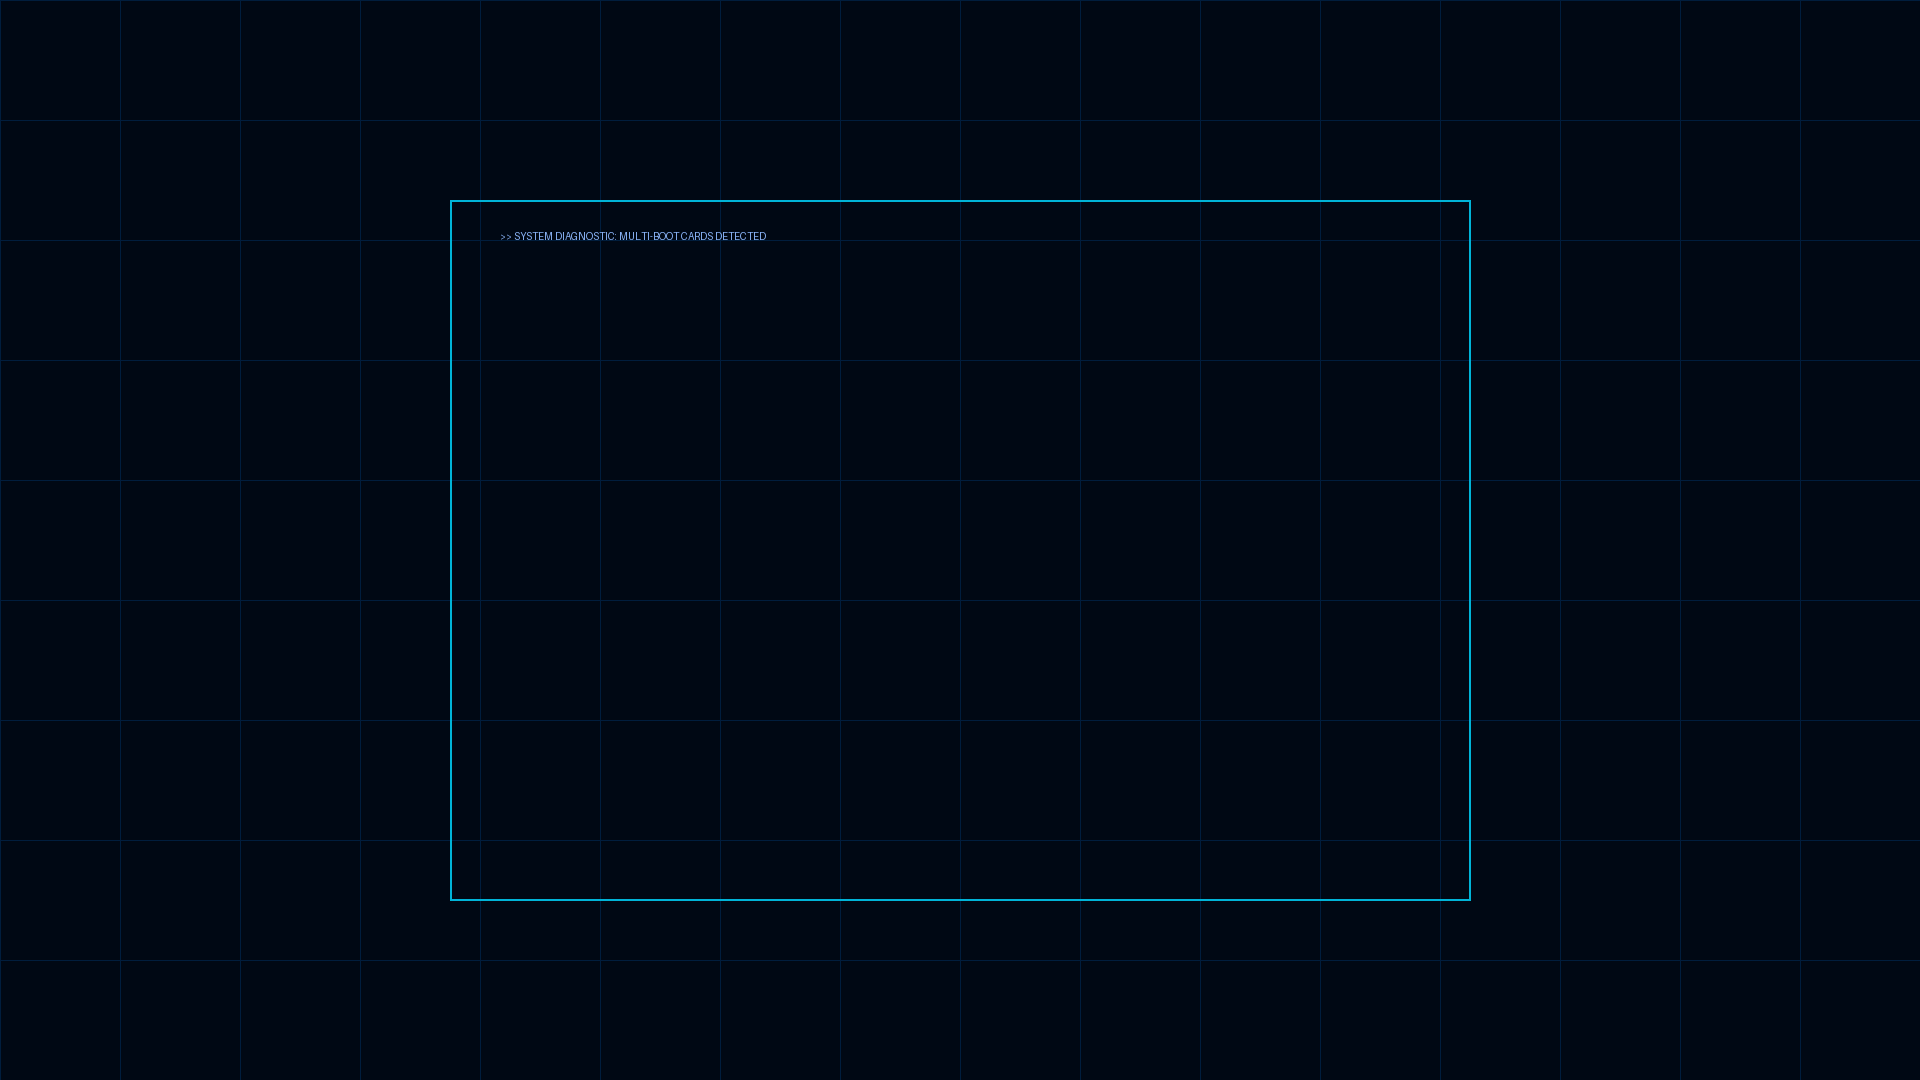
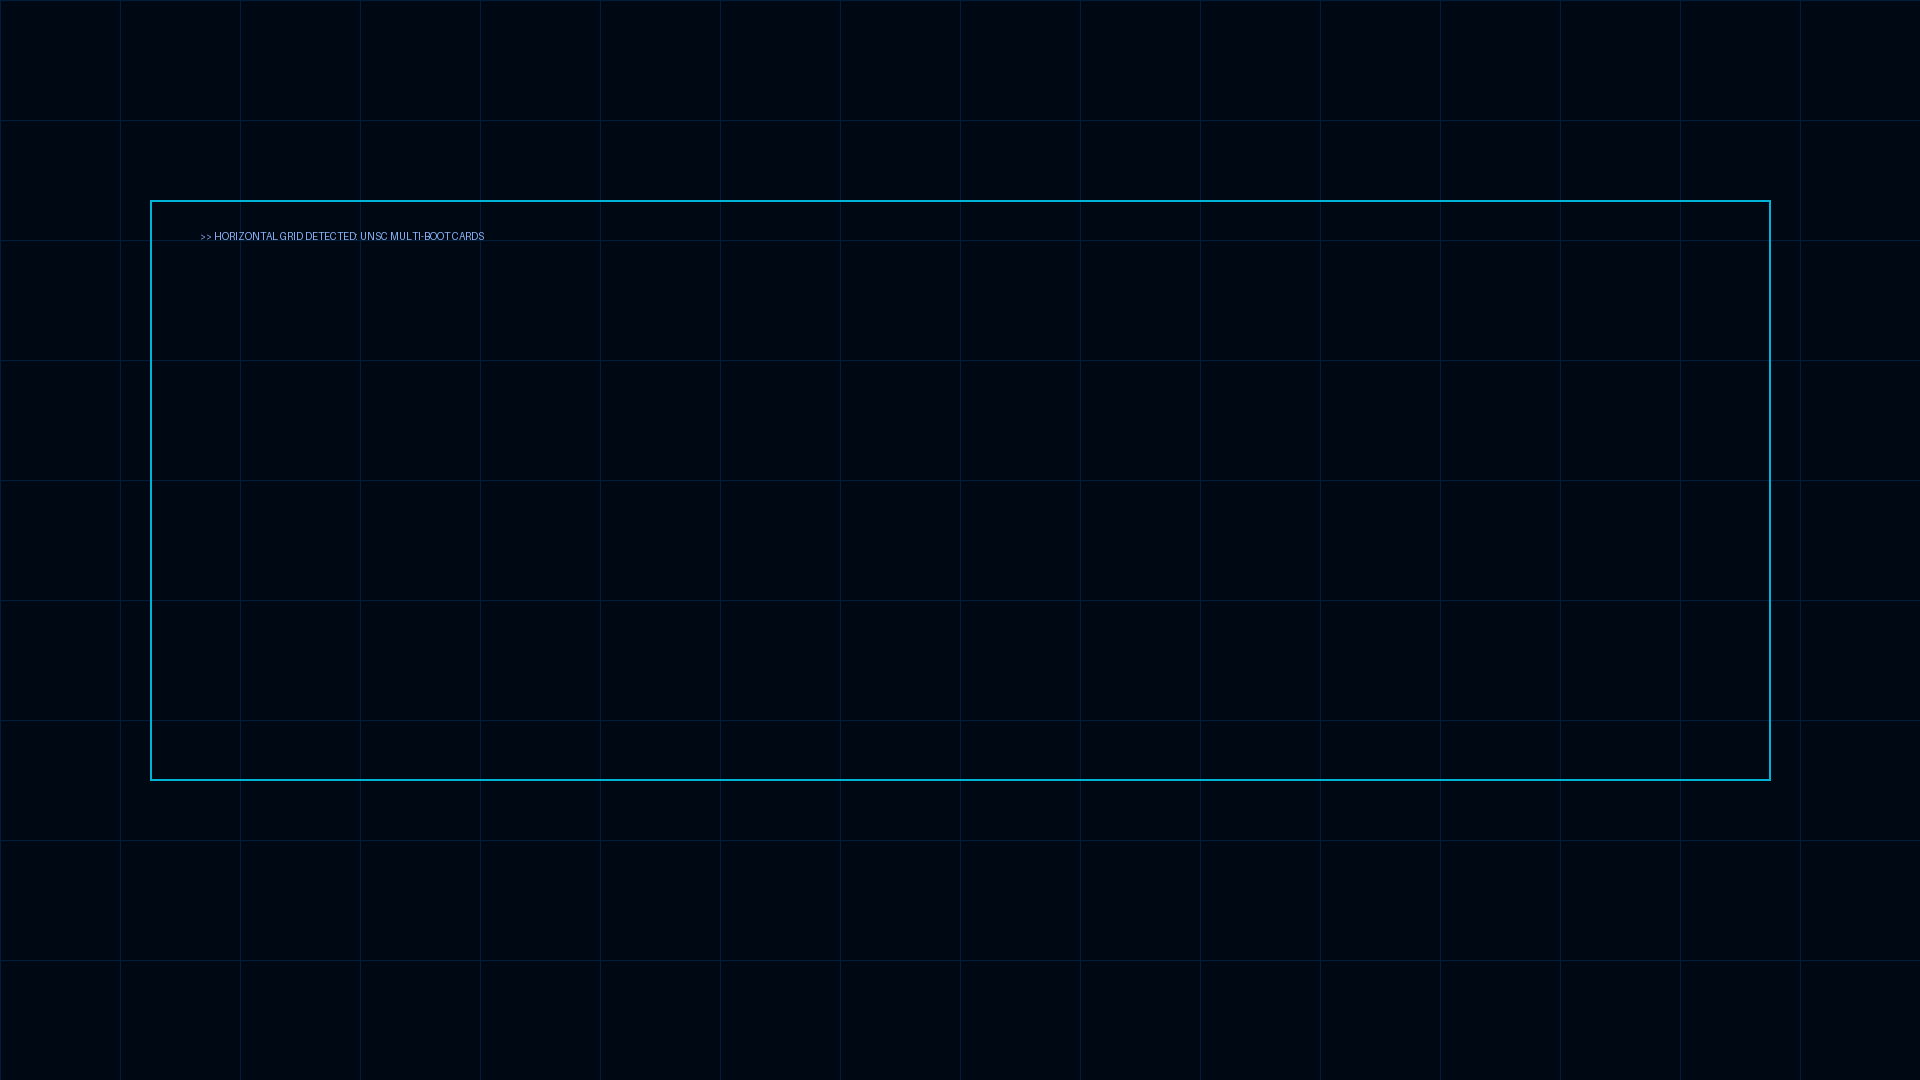
pembaruan style horisontal
Pembaruan style selection dalam bentuk card horisontal

diff --git a/README.md b/README.md
@@ -1,14 +1,14 @@
-# UNSC Cortana GRUB2 Theme
+# UNSC Cortana GRUB2 Theme (Horizontal Card Layout)
 
-Tema GRUB2 kustom dengan estetika antarmuka teknologi militer **UNSC** dan hologram **Cortana** dari semesta *Halo*, dioptimalkan khusus untuk **Ubuntu 26.04**.
+Tema GRUB2 kustom bertema teknologi militer **UNSC** dan hologram **Cortana** (*Halo*), dioptimalkan untuk **Ubuntu 26.04** dengan tata letak pilihan sistem operasi mendatar secara **horizontal (side-by-side cards)**.
 
-## Preview Tampilan
-![Preview Tema GRUB2](./preview.png)
+## Preview Tampilan Horizontal
+![Preview Tema Horizontal](./preview.png)
 
 ## Fitur Utama
-- **Card-Style OS Selection:** Tata letak menu boot dirancang per item di dalam kartu/panel terpisah agar pemilihan sistem operasi terlihat rapi dan futuristik.
-- **Palet Warna Hologram:** Didominasi warna biru khas sistem holografik AI Cortana (`#8ab4f8` dan `#00b4d8`) di atas latar belakang gelap militer.
-- **Ubuntu 26.04 Optimized:** Kompatibel penuh dengan resolusi layar tinggi dan konfigurasi framebuffer modern.
+- **Horizontal Card Layout:** Kartu pemilihan sistem operasi disusun berdampingan secara horizontal (`orient = "horizontal"`).
+- **Estetika Hologram UNSC:** Aksen warna biru terang dan latar belakang konsol militer masa depan.
+- **Ubuntu 26.04 Ready:** Mendukung resolusi tinggi dan framebuffer modern.
 
 ---
 
@@ -17,31 +17,28 @@ Tema GRUB2 kustom dengan estetika antarmuka teknologi militer **UNSC** dan holog
 1. **Salin Folder Tema**
    Pindahkan folder tema ini ke direktori GRUB di sistem Linux Anda:
    ```bash
-   sudo cp -r unsc_cortana_cards /boot/grub/themes/
+   sudo cp -r unsc_cortana_horizontal /boot/grub/themes/
    ```
 
 2. **Generate File Font `.pf2`**
-   GRUB memerlukan format font khusus `.pf2`. Buat file font dari font sistem Anda (misalnya DejaVuSans-Bold atau font truetype lainnya) menggunakan perintah:
    ```bash
-   sudo grub-mkfont -o /boot/grub/themes/unsc_cortana_cards/UnscFont.pf2 /usr/share/fonts/truetype/dejavu/DejaVuSans-Bold.ttf --size=16
+   sudo grub-mkfont -o /boot/grub/themes/unsc_cortana_horizontal/UnscFont.pf2 /usr/share/fonts/truetype/dejavu/DejaVuSans-Bold.ttf --size=16
    ```
 
 3. **Konfigurasi File `/etc/default/grub`**
-   Buka file konfigurasi GRUB menggunakan editor teks:
    ```bash
    sudo nano /etc/default/grub
    ```
-   Tambahkan atau sesuaikan baris berikut:
+   Tambahkan baris berikut:
    ```bash
    GRUB_GFXMODE=1920x1080,auto
    GRUB_GFXPAYLOAD_LINUX=keep
    GRUB_TIMEOUT_STYLE="menu"
    GRUB_TIMEOUT="10"
-   GRUB_THEME="/boot/grub/themes/unsc_cortana_cards/theme.txt"
+   GRUB_THEME="/boot/grub/themes/unsc_cortana_horizontal/theme.txt"
    ```
 
 4. **Perbarui GRUB**
-   Terapkan perubahan pada sistem Anda:
    ```bash
    sudo update-grub
    ```
